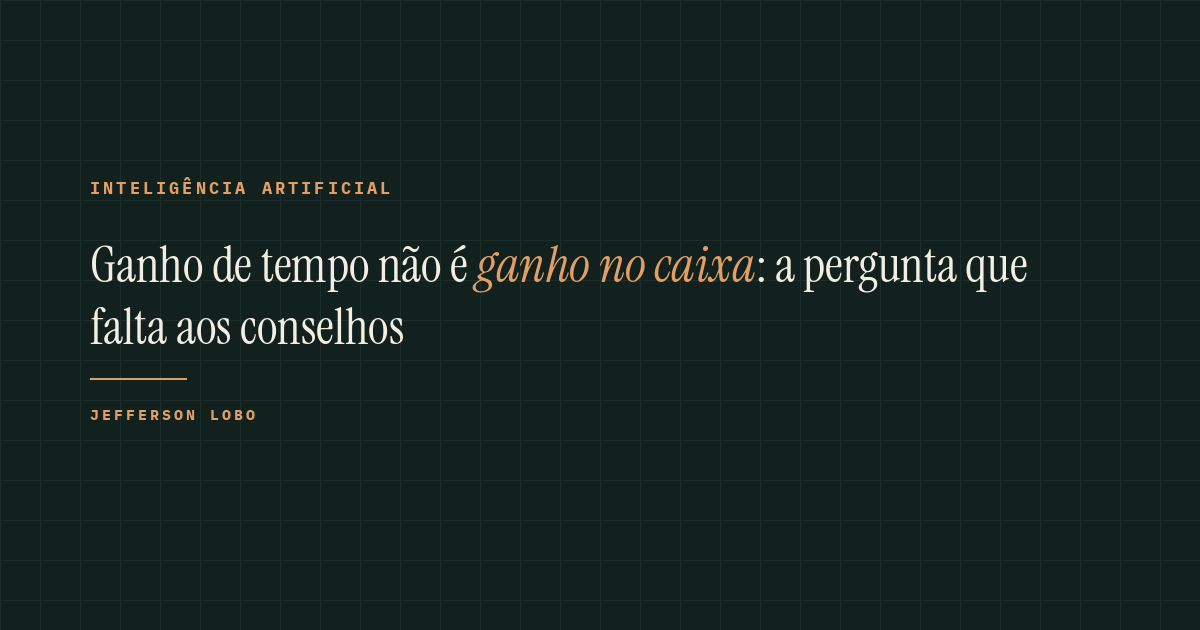
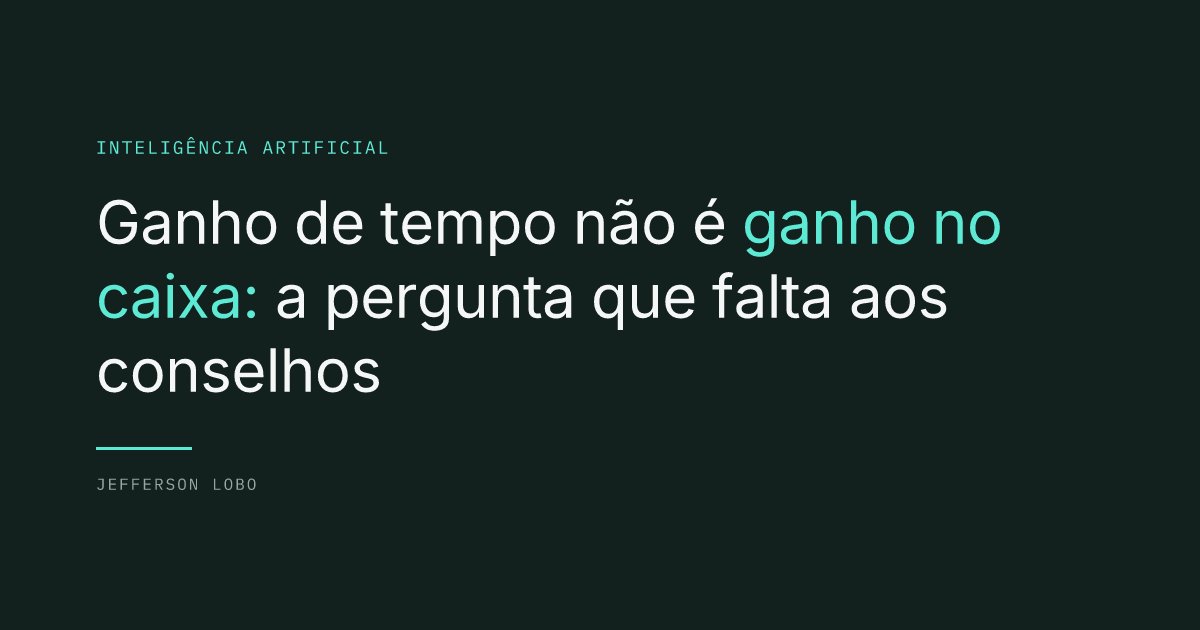
Remove a grade de fundo do site e passa as capas do blog para o padrão verde do site
- Capas: gerador branded-cover.ts troca âmbar/Instrument Serif por Inter
  branco com destaque verde-água (--primary), assinatura cinza e fundo liso;
  destaque passa a marcar o trecho exato, não toda palavra igual do título.
  Capa de 'Ganho de tempo não é ganho no caixa' refeita com o mesmo gerador.
- Grade removida da Prova de Ganho (grade em perspectiva), das LPs da
  Academia (e-aura__grade, e-card__pontos), das 9 páginas de dicas, de
  claude.html e do currículo. Mantida só a régua de anos do gráfico de
  linha do tempo do currículo, que é escala de dado, não fundo.

Claude-Session: https://claude.ai/code/session_012wagptacgSynayT46XTCCK

diff --git a/supabase/functions/_shared/branded-cover.ts b/supabase/functions/_shared/branded-cover.ts
@@ -1,19 +1,20 @@
-// Gera a capa de post do blog no padrão visual do site (petróleo + grid sutil +
-// kicker em IBM Plex Mono âmbar + título em Instrument Serif com a "palavra-chave"
-// em itálico âmbar + régua fina + assinatura), em vez da foto genérica gerada
-// por IA que o pipeline usava antes.
+// Gera a capa de post do blog no padrão visual do site (nov/2026): fundo
+// petróleo liso (sem grade) + kicker em IBM Plex Mono verde-água + título em Inter branco com
+// as palavras-chave em verde-água (cor --primary do site, hsl 171 77% 64%) +
+// régua fina verde-água + assinatura cinza. Âmbar e Instrument Serif saíram:
+// eram do design anterior e destoavam dos cards do blog.
 //
 // Usa satori (React-like tree -> SVG) + resvg-wasm (SVG -> PNG), ambos puro
 // JS/WASM, compatíveis com o runtime de Edge Functions do Supabase (sem FFI,
 // sem canvas nativo). As fontes são buscadas do Google Fonts em tempo de
-// execução (Instrument Serif e IBM Plex Mono, as mesmas do design system do
-// site) — ver fetchGoogleFontTTF().
+// execução (Inter e IBM Plex Mono, as mesmas do design system do site) — ver fetchGoogleFontTTF().
 import satori from 'npm:satori@0.10.13';
 import { Resvg, initWasm } from 'npm:@resvg/resvg-wasm@2.6.2';
 
 const PETROLEO = '#12201E';
-const PAPEL = '#F2EEE4';
-const AMBAR = '#E29F65';
+const BRANCO = '#F5F7F6';
+const VERDE = '#5DEAD5'; // --primary do site: hsl(171 77% 64%)
+const CINZA = '#9AA5A2';
 
 let wasmReady: Promise<void> | null = null;
 function ensureResvgWasm(): Promise<void> {
@@ -46,25 +47,25 @@ async function fetchGoogleFontTTF(cssFamilyQuery: string): Promise<ArrayBuffer> 
   return fontRes.arrayBuffer();
 }
 
-let fontsCache: Promise<{
-  serifRegular: ArrayBuffer;
-  serifItalic: ArrayBuffer;
-  monoBold: ArrayBuffer;
-}> | null = null;
+export interface CoverFonts {
+  sansRegular: ArrayBuffer;
+  monoRegular: ArrayBuffer;
+}
 
-function loadFonts() {
+let fontsCache: Promise<CoverFonts> | null = null;
+
+function loadFonts(): Promise<CoverFonts> {
   if (!fontsCache) {
     fontsCache = Promise.all([
-      fetchGoogleFontTTF('Instrument+Serif'),
-      fetchGoogleFontTTF('Instrument+Serif:ital@1'),
-      fetchGoogleFontTTF('IBM+Plex+Mono:wght@700'),
-    ]).then(([serifRegular, serifItalic, monoBold]) => ({ serifRegular, serifItalic, monoBold }));
+      fetchGoogleFontTTF('Inter:wght@400'),
+      fetchGoogleFontTTF('IBM+Plex+Mono:wght@400'),
+    ]).then(([sansRegular, monoRegular]) => ({ sansRegular, monoRegular }));
   }
   return fontsCache;
 }
 
 // Heurística simples e determinística pra escolher qual trecho do título vira
-// itálico âmbar (o "conceito-chave" visual), sem precisar de curadoria manual
+// destaque verde-água (o "conceito-chave" visual), sem precisar de curadoria manual
 // a cada post: as duas últimas palavras "de conteúdo" do título (ignorando
 // pontuação e preposições curtas soltas no fim).
 const STOPWORDS = new Set(['de', 'da', 'do', 'das', 'dos', 'e', 'a', 'o', 'as', 'os', 'em', 'no', 'na']);
@@ -85,25 +86,26 @@ interface BrandedCoverOptions {
   kicker: string;
   title: string;
   author?: string;
-  /** Sobrescreve a escolha automática de qual(is) palavra(s) destacar em itálico âmbar. */
+  /** Sobrescreve a escolha automática de qual(is) palavra(s) destacar em verde-água. */
   highlightWords?: string[];
 }
 
-export async function renderBrandedCover({
-  kicker,
-  title,
-  author = 'JEFFERSON LOBO',
-  highlightWords,
-}: BrandedCoverOptions): Promise<Uint8Array> {
-  const [{ serifRegular, serifItalic, monoBold }] = await Promise.all([loadFonts(), ensureResvgWasm()]);
-  const highlight = new Set((highlightWords ?? pickHighlightWords(title)).map((w) => w.toLowerCase()));
-
-  const words = title.split(' ').map((word, i) => {
-    const bare = word.toLowerCase().replace(/[.,:;!?]+$/, '');
-    return { word, isHighlight: highlight.has(bare), key: i };
-  });
-
-  const tree = {
+/** Monta a árvore satori da capa. Separado do render para poder ser usado fora do Deno (ex.: gerar capa manual). */
+export function buildCoverTree({ kicker, title, author = 'JEFFERSON LOBO', highlightWords }: BrandedCoverOptions) {
+  // Destaca o TRECHO (sequência de palavras), na última vez que aparece — e não
+  // toda palavra igual do título (ex.: "Ganho ... ganho no caixa" pintava as duas).
+  const norm = (w: string) => w.toLowerCase().replace(/[.,:;!?]+$/, '');
+  const raw = title.split(' ');
+  const alvo = (highlightWords ?? pickHighlightWords(title)).map(norm);
+  const marcados = new Set<number>();
+  for (let i = raw.length - alvo.length; i >= 0; i--) {
+    if (alvo.every((w, j) => norm(raw[i + j]) === w)) {
+      alvo.forEach((_, j) => marcados.add(i + j));
+      break;
+    }
+  }
+  const words = raw.map((word, i) => ({ word, isHighlight: marcados.has(i), key: i }));
+  return {
     type: 'div',
     props: {
       style: {
@@ -113,87 +115,51 @@ export async function renderBrandedCover({
         flexDirection: 'column',
         justifyContent: 'center',
         backgroundColor: PETROLEO,
-        backgroundImage:
-          'linear-gradient(90deg, rgba(226,159,101,0.08) 1px, transparent 1px), linear-gradient(180deg, rgba(226,159,101,0.08) 1px, transparent 1px)',
-        backgroundSize: '40px 40px',
-        padding: '0 90px',
+        padding: '0 96px',
       },
       children: [
         {
           type: 'div',
           props: {
-            style: {
-              display: 'flex',
-              fontFamily: 'IBM Plex Mono',
-              fontWeight: 700,
-              fontSize: 17,
-              letterSpacing: 3,
-              textTransform: 'uppercase',
-              color: AMBAR,
-              marginBottom: 22,
-            },
+            style: { display: 'flex', fontFamily: 'IBM Plex Mono', fontSize: 18, letterSpacing: 2, textTransform: 'uppercase', color: VERDE, marginBottom: 28 },
             children: kicker,
           },
         },
         {
           type: 'div',
           props: {
-            style: {
-              display: 'flex',
-              flexWrap: 'wrap',
-              fontFamily: 'Instrument Serif',
-              fontSize: 50,
-              lineHeight: 1.25,
-              color: PAPEL,
-              maxWidth: 1020,
-            },
+            style: { display: 'flex', flexWrap: 'wrap', fontFamily: 'Inter', fontSize: 60, lineHeight: 1.22, letterSpacing: -0.5, color: BRANCO, maxWidth: 1000 },
             children: words.map(({ word, isHighlight, key }) => ({
               type: 'span',
-              props: {
-                style: {
-                  marginRight: 14,
-                  fontStyle: isHighlight ? 'italic' : 'normal',
-                  color: isHighlight ? AMBAR : PAPEL,
-                },
-                children: word,
-              },
+              props: { style: { marginRight: 15, color: isHighlight ? VERDE : BRANCO }, children: word },
               key,
             })),
           },
         },
-        {
-          type: 'div',
-          props: { style: { width: 96, height: 2, backgroundColor: AMBAR, margin: '26px 0 22px 0' } },
-        },
+        { type: 'div', props: { style: { width: 96, height: 3, backgroundColor: VERDE, margin: '38px 0 24px 0' } } },
         {
           type: 'div',
           props: {
-            style: {
-              display: 'flex',
-              fontFamily: 'IBM Plex Mono',
-              fontWeight: 700,
-              fontSize: 15,
-              letterSpacing: 3,
-              textTransform: 'uppercase',
-              color: AMBAR,
-            },
+            style: { display: 'flex', fontFamily: 'IBM Plex Mono', fontSize: 16, letterSpacing: 2, textTransform: 'uppercase', color: CINZA },
             children: author,
           },
         },
       ],
     },
   };
+}
 
-  const svg = await satori(tree as any, {
-    width: 1200,
-    height: 630,
-    fonts: [
-      { name: 'Instrument Serif', data: serifRegular, weight: 400, style: 'normal' },
-      { name: 'Instrument Serif', data: serifItalic, weight: 400, style: 'italic' },
-      { name: 'IBM Plex Mono', data: monoBold, weight: 700, style: 'normal' },
-    ],
-  });
+export function coverFontsForSatori(f: CoverFonts) {
+  return [
+    { name: 'Inter', data: f.sansRegular, weight: 400 as const, style: 'normal' as const },
+    { name: 'IBM Plex Mono', data: f.monoRegular, weight: 400 as const, style: 'normal' as const },
+  ];
+}
 
+export async function renderBrandedCover(opts: BrandedCoverOptions): Promise<Uint8Array> {
+  const [fonts] = await Promise.all([loadFonts(), ensureResvgWasm()]);
+  // deno-lint-ignore no-explicit-any
+  const svg = await satori(buildCoverTree(opts) as any, { width: 1200, height: 630, fonts: coverFontsForSatori(fonts) });
   const resvg = new Resvg(svg, { fitTo: { mode: 'width', value: 1200 } });
   return resvg.render().asPng();
 }

diff --git a/src/pages/ProvaDeGanho.tsx b/src/pages/ProvaDeGanho.tsx
@@ -182,7 +182,7 @@ const faq = [
 
 
 /* ------------------------------------------------------------------------------------------------
- * Efeitos da página (nov/2026): fundo vivo em camadas (partículas em rede, grade em perspectiva e
+ * Efeitos da página (nov/2026): fundo vivo em camadas (partículas em rede e
  * orbes com parallax), cards flutuantes que inclinam com o mouse e ganham brilho neon, profundidade
  * entre conteúdo e fundo, e a linha das fases que acende conforme a rolagem.
  * Parallax e reveal usam o motor do site (ScrollFX: [data-speed] e [data-reveal]).
@@ -194,13 +194,6 @@ const FX_CSS = `
 .pg-fx section { background: transparent !important; }
 .pg-bg { position: fixed; inset: 0; z-index: 0; pointer-events: none; overflow: hidden; }
 .pg-bg canvas { position: absolute; inset: 0; width: 100%; height: 100%; }
-.pg-grade { position: absolute; left: -50%; right: -50%; bottom: -20vh; height: 70vh;
-  background-image: linear-gradient(hsl(var(--primary) / .16) 1px, transparent 1px),
-                    linear-gradient(90deg, hsl(var(--primary) / .16) 1px, transparent 1px);
-  background-size: 64px 64px; transform: perspective(600px) rotateX(64deg); transform-origin: bottom;
-  mask-image: linear-gradient(to top, #000 10%, transparent 85%); -webkit-mask-image: linear-gradient(to top, #000 10%, transparent 85%);
-  animation: pg-grade 9s linear infinite; }
-@keyframes pg-grade { to { background-position: 0 64px, 0 0; } }
 .pg-orbe { position: absolute; border-radius: 50%; filter: blur(90px); opacity: .5; will-change: transform; }
 .pg-orbe--a { width: 520px; height: 520px; left: -140px; top: 8vh; background: hsl(var(--primary) / .32); }
 .pg-orbe--b { width: 420px; height: 420px; right: -120px; top: 55vh; background: hsl(172 80% 40% / .26); }
@@ -252,7 +245,7 @@ const FX_CSS = `
 @keyframes pg-respira { 0%,100% { box-shadow: 0 0 80px -30px hsl(var(--primary) / .9); } 50% { box-shadow: 0 0 110px -24px hsl(var(--primary)); } }
 
 @media (prefers-reduced-motion: reduce) {
-  .pg-grade, .pg-flutua, .pg-neon, .pg-hud i, .pg-video { animation: none !important; }
+  .pg-flutua, .pg-neon, .pg-hud i, .pg-video { animation: none !important; }
   .pg-card { transform: none !important; }
 }
 `;
@@ -306,7 +299,6 @@ function FundoVivo() {
       <div data-speed="0.25" className="pg-orbe pg-orbe--a" />
       <div data-speed="-0.15" className="pg-orbe pg-orbe--b" />
       <div data-speed="0.4" className="pg-orbe pg-orbe--c" />
-      <div className="pg-grade" />
       <canvas ref={ref} />
     </div>
   );

diff --git a/src/styles/escola.css b/src/styles/escola.css
@@ -187,7 +187,6 @@ html:has(.escola) body { background: #050505; }
 /* ---------- hero ---------- */
 .e-hero { position: relative; isolation: isolate; overflow: hidden; padding: calc(64px + clamp(48px, 9vw, 96px)) 20px 0; text-align: center; }
 .e-aura { position: absolute; inset: 0; z-index: -1; pointer-events: none; background: radial-gradient(60% 42% at 50% 0%, rgb(20 184 166 / 0.18), transparent 70%), radial-gradient(30% 22% at 50% 4%, rgb(94 234 212 / 0.12), transparent 70%); }
-.e-aura__grade { position: absolute; inset: 0; background-image: linear-gradient(to right, rgb(255 255 255 / 0.045) 1px, transparent 1px); background-size: calc(100% / 6) 100%; background-position: calc(100% / 12) 0; -webkit-mask-image: radial-gradient(75% 60% at 50% 28%, #000, transparent); mask-image: radial-gradient(75% 60% at 50% 28%, #000, transparent); }
 .e-aura__arco {
   position: absolute;
   left: 50%;
@@ -296,8 +295,7 @@ html:has(.escola) body { background: #050505; }
 .e-card--laranja { --acc: #f97316; --acc-claro: #fb923c; --acc-brilho: #fdba74; }
 .e-card__feixe { position: absolute; top: 0; left: 50%; z-index: 3; width: 70%; height: 1px; transform: translateX(-50%); background: linear-gradient(90deg, transparent, color-mix(in srgb, var(--acc-brilho) 65%, transparent), transparent); pointer-events: none; }
 .e-card__brilho { position: absolute; top: 0; left: 0; width: 100%; height: 260px; background: radial-gradient(ellipse at top, color-mix(in srgb, var(--acc) 26%, transparent), transparent 70%); pointer-events: none; }
-.e-card__pontos { position: absolute; inset: 0; background-image: radial-gradient(rgb(255 255 255 / 0.05) 1px, transparent 1px); background-size: 24px 24px; -webkit-mask-image: radial-gradient(60% 60% at 50% 15%, #000, transparent); mask-image: radial-gradient(60% 60% at 50% 15%, #000, transparent); pointer-events: none; }
-.e-card > :not(.e-card__feixe):not(.e-card__brilho):not(.e-card__pontos) { position: relative; z-index: 2; }
+.e-card > :not(.e-card__feixe):not(.e-card__brilho) { position: relative; z-index: 2; }
 .e-card__thumb { display: block; width: calc(100% + 64px); margin: -32px -32px 24px; aspect-ratio: 16 / 9; overflow: hidden; border-bottom: 1px solid color-mix(in srgb, var(--acc) 22%, transparent); background: rgb(255 255 255 / 0.04); }
 .e-card__thumb img { width: 100%; height: 100%; object-fit: cover; transition: transform 0.5s var(--e-padrao); }
 .e-card:hover .e-card__thumb img { transform: scale(1.04); }

diff --git a/public/academia/dicas/5-perguntas-do-board-sobre-ia.html b/public/academia/dicas/5-perguntas-do-board-sobre-ia.html
@@ -16,7 +16,7 @@ a{color:var(--acl)}
 /* hero com aura, grade, pulsos e motivo do tema */
 .hero{position:relative;padding:34px 0 8px;isolation:isolate}
 .aura{position:absolute;inset:-120px -100vw 0;z-index:-1;pointer-events:none;background:radial-gradient(60% 55% at 50% 0%,rgba(20,184,166,.20),transparent 70%),radial-gradient(30% 28% at 50% 6%,rgba(94,234,212,.12),transparent 70%)}
-.aura .grade{position:absolute;inset:0;background-image:linear-gradient(to right,rgba(255,255,255,.045) 1px,transparent 1px);background-size:calc(100% / 12) 100%;-webkit-mask-image:radial-gradient(70% 70% at 50% 25%,#000,transparent);mask-image:radial-gradient(70% 70% at 50% 25%,#000,transparent)}
+.aura .grade{display:none}
 .aura .arco{position:absolute;left:50%;top:70%;width:max(1400px,150vw);aspect-ratio:1;transform:translateX(-50%);border-radius:50%;border-top:1px solid rgba(94,234,212,.35);background:radial-gradient(closest-side,#050505 97%,rgba(20,184,166,.22) 99.4%,transparent 100%);box-shadow:0 -40px 140px -30px rgba(20,184,166,.4)}
 .pv{position:absolute;top:0;width:1px;height:110px;background:linear-gradient(to bottom,transparent,var(--ac),var(--acb),transparent);box-shadow:0 0 12px 1px rgba(94,234,212,.6);animation:cv 4s cubic-bezier(.4,0,.2,1) infinite}
 @keyframes cv{0%{opacity:0;transform:translateY(-100%)}10%,80%{opacity:1}100%{opacity:0;transform:translateY(60vh)}}

diff --git a/public/academia/dicas/antes-de-usar-ia-meca.html b/public/academia/dicas/antes-de-usar-ia-meca.html
@@ -16,7 +16,7 @@ a{color:var(--acl)}
 /* hero com aura, grade, pulsos e motivo do tema */
 .hero{position:relative;padding:34px 0 8px;isolation:isolate}
 .aura{position:absolute;inset:-120px -100vw 0;z-index:-1;pointer-events:none;background:radial-gradient(60% 55% at 50% 0%,rgba(20,184,166,.20),transparent 70%),radial-gradient(30% 28% at 50% 6%,rgba(94,234,212,.12),transparent 70%)}
-.aura .grade{position:absolute;inset:0;background-image:linear-gradient(to right,rgba(255,255,255,.045) 1px,transparent 1px);background-size:calc(100% / 12) 100%;-webkit-mask-image:radial-gradient(70% 70% at 50% 25%,#000,transparent);mask-image:radial-gradient(70% 70% at 50% 25%,#000,transparent)}
+.aura .grade{display:none}
 .aura .arco{position:absolute;left:50%;top:70%;width:max(1400px,150vw);aspect-ratio:1;transform:translateX(-50%);border-radius:50%;border-top:1px solid rgba(94,234,212,.35);background:radial-gradient(closest-side,#050505 97%,rgba(20,184,166,.22) 99.4%,transparent 100%);box-shadow:0 -40px 140px -30px rgba(20,184,166,.4)}
 .pv{position:absolute;top:0;width:1px;height:110px;background:linear-gradient(to bottom,transparent,var(--ac),var(--acb),transparent);box-shadow:0 0 12px 1px rgba(94,234,212,.6);animation:cv 4s cubic-bezier(.4,0,.2,1) infinite}
 @keyframes cv{0%{opacity:0;transform:translateY(-100%)}10%,80%{opacity:1}100%{opacity:0;transform:translateY(60vh)}}

diff --git a/public/academia/dicas/decisoes-que-nunca-ficam-so-com-a-ia.html b/public/academia/dicas/decisoes-que-nunca-ficam-so-com-a-ia.html
@@ -16,7 +16,7 @@ a{color:var(--acl)}
 /* hero com aura, grade, pulsos e motivo do tema */
 .hero{position:relative;padding:34px 0 8px;isolation:isolate}
 .aura{position:absolute;inset:-120px -100vw 0;z-index:-1;pointer-events:none;background:radial-gradient(60% 55% at 50% 0%,rgba(20,184,166,.20),transparent 70%),radial-gradient(30% 28% at 50% 6%,rgba(94,234,212,.12),transparent 70%)}
-.aura .grade{position:absolute;inset:0;background-image:linear-gradient(to right,rgba(255,255,255,.045) 1px,transparent 1px);background-size:calc(100% / 12) 100%;-webkit-mask-image:radial-gradient(70% 70% at 50% 25%,#000,transparent);mask-image:radial-gradient(70% 70% at 50% 25%,#000,transparent)}
+.aura .grade{display:none}
 .aura .arco{position:absolute;left:50%;top:70%;width:max(1400px,150vw);aspect-ratio:1;transform:translateX(-50%);border-radius:50%;border-top:1px solid rgba(94,234,212,.35);background:radial-gradient(closest-side,#050505 97%,rgba(20,184,166,.22) 99.4%,transparent 100%);box-shadow:0 -40px 140px -30px rgba(20,184,166,.4)}
 .pv{position:absolute;top:0;width:1px;height:110px;background:linear-gradient(to bottom,transparent,var(--ac),var(--acb),transparent);box-shadow:0 0 12px 1px rgba(94,234,212,.6);animation:cv 4s cubic-bezier(.4,0,.2,1) infinite}
 @keyframes cv{0%{opacity:0;transform:translateY(-100%)}10%,80%{opacity:1}100%{opacity:0;transform:translateY(60vh)}}

diff --git a/public/academia/dicas/go-no-go-do-piloto-de-ia.html b/public/academia/dicas/go-no-go-do-piloto-de-ia.html
@@ -16,7 +16,7 @@ a{color:var(--acl)}
 /* hero com aura, grade, pulsos e motivo do tema */
 .hero{position:relative;padding:34px 0 8px;isolation:isolate}
 .aura{position:absolute;inset:-120px -100vw 0;z-index:-1;pointer-events:none;background:radial-gradient(60% 55% at 50% 0%,rgba(20,184,166,.20),transparent 70%),radial-gradient(30% 28% at 50% 6%,rgba(94,234,212,.12),transparent 70%)}
-.aura .grade{position:absolute;inset:0;background-image:linear-gradient(to right,rgba(255,255,255,.045) 1px,transparent 1px);background-size:calc(100% / 12) 100%;-webkit-mask-image:radial-gradient(70% 70% at 50% 25%,#000,transparent);mask-image:radial-gradient(70% 70% at 50% 25%,#000,transparent)}
+.aura .grade{display:none}
 .aura .arco{position:absolute;left:50%;top:70%;width:max(1400px,150vw);aspect-ratio:1;transform:translateX(-50%);border-radius:50%;border-top:1px solid rgba(94,234,212,.35);background:radial-gradient(closest-side,#050505 97%,rgba(20,184,166,.22) 99.4%,transparent 100%);box-shadow:0 -40px 140px -30px rgba(20,184,166,.4)}
 .pv{position:absolute;top:0;width:1px;height:110px;background:linear-gradient(to bottom,transparent,var(--ac),var(--acb),transparent);box-shadow:0 0 12px 1px rgba(94,234,212,.6);animation:cv 4s cubic-bezier(.4,0,.2,1) infinite}
 @keyframes cv{0%{opacity:0;transform:translateY(-100%)}10%,80%{opacity:1}100%{opacity:0;transform:translateY(60vh)}}

diff --git a/public/academia/dicas/politica-de-uso-de-ia-em-uma-pagina.html b/public/academia/dicas/politica-de-uso-de-ia-em-uma-pagina.html
@@ -16,7 +16,7 @@ a{color:var(--acl)}
 /* hero com aura, grade, pulsos e motivo do tema */
 .hero{position:relative;padding:34px 0 8px;isolation:isolate}
 .aura{position:absolute;inset:-120px -100vw 0;z-index:-1;pointer-events:none;background:radial-gradient(60% 55% at 50% 0%,rgba(20,184,166,.20),transparent 70%),radial-gradient(30% 28% at 50% 6%,rgba(94,234,212,.12),transparent 70%)}
-.aura .grade{position:absolute;inset:0;background-image:linear-gradient(to right,rgba(255,255,255,.045) 1px,transparent 1px);background-size:calc(100% / 12) 100%;-webkit-mask-image:radial-gradient(70% 70% at 50% 25%,#000,transparent);mask-image:radial-gradient(70% 70% at 50% 25%,#000,transparent)}
+.aura .grade{display:none}
 .aura .arco{position:absolute;left:50%;top:70%;width:max(1400px,150vw);aspect-ratio:1;transform:translateX(-50%);border-radius:50%;border-top:1px solid rgba(94,234,212,.35);background:radial-gradient(closest-side,#050505 97%,rgba(20,184,166,.22) 99.4%,transparent 100%);box-shadow:0 -40px 140px -30px rgba(20,184,166,.4)}
 .pv{position:absolute;top:0;width:1px;height:110px;background:linear-gradient(to bottom,transparent,var(--ac),var(--acb),transparent);box-shadow:0 0 12px 1px rgba(94,234,212,.6);animation:cv 4s cubic-bezier(.4,0,.2,1) infinite}
 @keyframes cv{0%{opacity:0;transform:translateY(-100%)}10%,80%{opacity:1}100%{opacity:0;transform:translateY(60vh)}}

diff --git a/public/academia/dicas/proposta-comercial-com-ia.html b/public/academia/dicas/proposta-comercial-com-ia.html
@@ -16,7 +16,7 @@ a{color:var(--acl)}
 /* hero com aura, grade, pulsos e motivo do tema */
 .hero{position:relative;padding:34px 0 8px;isolation:isolate}
 .aura{position:absolute;inset:-120px -100vw 0;z-index:-1;pointer-events:none;background:radial-gradient(60% 55% at 50% 0%,rgba(20,184,166,.20),transparent 70%),radial-gradient(30% 28% at 50% 6%,rgba(94,234,212,.12),transparent 70%)}
-.aura .grade{position:absolute;inset:0;background-image:linear-gradient(to right,rgba(255,255,255,.045) 1px,transparent 1px);background-size:calc(100% / 12) 100%;-webkit-mask-image:radial-gradient(70% 70% at 50% 25%,#000,transparent);mask-image:radial-gradient(70% 70% at 50% 25%,#000,transparent)}
+.aura .grade{display:none}
 .aura .arco{position:absolute;left:50%;top:70%;width:max(1400px,150vw);aspect-ratio:1;transform:translateX(-50%);border-radius:50%;border-top:1px solid rgba(94,234,212,.35);background:radial-gradient(closest-side,#050505 97%,rgba(20,184,166,.22) 99.4%,transparent 100%);box-shadow:0 -40px 140px -30px rgba(20,184,166,.4)}
 .pv{position:absolute;top:0;width:1px;height:110px;background:linear-gradient(to bottom,transparent,var(--ac),var(--acb),transparent);box-shadow:0 0 12px 1px rgba(94,234,212,.6);animation:cv 4s cubic-bezier(.4,0,.2,1) infinite}
 @keyframes cv{0%{opacity:0;transform:translateY(-100%)}10%,80%{opacity:1}100%{opacity:0;transform:translateY(60vh)}}

diff --git a/public/academia/dicas/resposta-ao-cliente-com-ia.html b/public/academia/dicas/resposta-ao-cliente-com-ia.html
@@ -16,7 +16,7 @@ a{color:var(--acl)}
 /* hero com aura, grade, pulsos e motivo do tema */
 .hero{position:relative;padding:34px 0 8px;isolation:isolate}
 .aura{position:absolute;inset:-120px -100vw 0;z-index:-1;pointer-events:none;background:radial-gradient(60% 55% at 50% 0%,rgba(20,184,166,.20),transparent 70%),radial-gradient(30% 28% at 50% 6%,rgba(94,234,212,.12),transparent 70%)}
-.aura .grade{position:absolute;inset:0;background-image:linear-gradient(to right,rgba(255,255,255,.045) 1px,transparent 1px);background-size:calc(100% / 12) 100%;-webkit-mask-image:radial-gradient(70% 70% at 50% 25%,#000,transparent);mask-image:radial-gradient(70% 70% at 50% 25%,#000,transparent)}
+.aura .grade{display:none}
 .aura .arco{position:absolute;left:50%;top:70%;width:max(1400px,150vw);aspect-ratio:1;transform:translateX(-50%);border-radius:50%;border-top:1px solid rgba(94,234,212,.35);background:radial-gradient(closest-side,#050505 97%,rgba(20,184,166,.22) 99.4%,transparent 100%);box-shadow:0 -40px 140px -30px rgba(20,184,166,.4)}
 .pv{position:absolute;top:0;width:1px;height:110px;background:linear-gradient(to bottom,transparent,var(--ac),var(--acb),transparent);box-shadow:0 0 12px 1px rgba(94,234,212,.6);animation:cv 4s cubic-bezier(.4,0,.2,1) infinite}
 @keyframes cv{0%{opacity:0;transform:translateY(-100%)}10%,80%{opacity:1}100%{opacity:0;transform:translateY(60vh)}}

diff --git a/public/academia/dicas/riscos-de-dados-e-lgpd-para-diretoria.html b/public/academia/dicas/riscos-de-dados-e-lgpd-para-diretoria.html
@@ -16,7 +16,7 @@ a{color:var(--acl)}
 /* hero com aura, grade, pulsos e motivo do tema */
 .hero{position:relative;padding:34px 0 8px;isolation:isolate}
 .aura{position:absolute;inset:-120px -100vw 0;z-index:-1;pointer-events:none;background:radial-gradient(60% 55% at 50% 0%,rgba(20,184,166,.20),transparent 70%),radial-gradient(30% 28% at 50% 6%,rgba(94,234,212,.12),transparent 70%)}
-.aura .grade{position:absolute;inset:0;background-image:linear-gradient(to right,rgba(255,255,255,.045) 1px,transparent 1px);background-size:calc(100% / 12) 100%;-webkit-mask-image:radial-gradient(70% 70% at 50% 25%,#000,transparent);mask-image:radial-gradient(70% 70% at 50% 25%,#000,transparent)}
+.aura .grade{display:none}
 .aura .arco{position:absolute;left:50%;top:70%;width:max(1400px,150vw);aspect-ratio:1;transform:translateX(-50%);border-radius:50%;border-top:1px solid rgba(94,234,212,.35);background:radial-gradient(closest-side,#050505 97%,rgba(20,184,166,.22) 99.4%,transparent 100%);box-shadow:0 -40px 140px -30px rgba(20,184,166,.4)}
 .pv{position:absolute;top:0;width:1px;height:110px;background:linear-gradient(to bottom,transparent,var(--ac),var(--acb),transparent);box-shadow:0 0 12px 1px rgba(94,234,212,.6);animation:cv 4s cubic-bezier(.4,0,.2,1) infinite}
 @keyframes cv{0%{opacity:0;transform:translateY(-100%)}10%,80%{opacity:1}100%{opacity:0;transform:translateY(60vh)}}

diff --git a/public/academia/dicas/seguranca-de-dados-em-10-minutos.html b/public/academia/dicas/seguranca-de-dados-em-10-minutos.html
@@ -16,7 +16,7 @@ a{color:var(--acl)}
 /* hero com aura, grade, pulsos e motivo do tema */
 .hero{position:relative;padding:34px 0 8px;isolation:isolate}
 .aura{position:absolute;inset:-120px -100vw 0;z-index:-1;pointer-events:none;background:radial-gradient(60% 55% at 50% 0%,rgba(20,184,166,.20),transparent 70%),radial-gradient(30% 28% at 50% 6%,rgba(94,234,212,.12),transparent 70%)}
-.aura .grade{position:absolute;inset:0;background-image:linear-gradient(to right,rgba(255,255,255,.045) 1px,transparent 1px);background-size:calc(100% / 12) 100%;-webkit-mask-image:radial-gradient(70% 70% at 50% 25%,#000,transparent);mask-image:radial-gradient(70% 70% at 50% 25%,#000,transparent)}
+.aura .grade{display:none}
 .aura .arco{position:absolute;left:50%;top:70%;width:max(1400px,150vw);aspect-ratio:1;transform:translateX(-50%);border-radius:50%;border-top:1px solid rgba(94,234,212,.35);background:radial-gradient(closest-side,#050505 97%,rgba(20,184,166,.22) 99.4%,transparent 100%);box-shadow:0 -40px 140px -30px rgba(20,184,166,.4)}
 .pv{position:absolute;top:0;width:1px;height:110px;background:linear-gradient(to bottom,transparent,var(--ac),var(--acb),transparent);box-shadow:0 0 12px 1px rgba(94,234,212,.6);animation:cv 4s cubic-bezier(.4,0,.2,1) infinite}
 @keyframes cv{0%{opacity:0;transform:translateY(-100%)}10%,80%{opacity:1}100%{opacity:0;transform:translateY(60vh)}}
